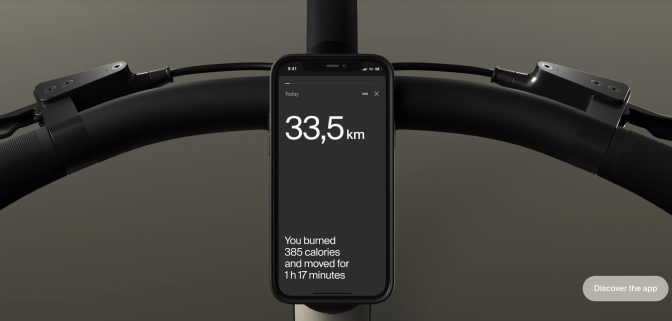
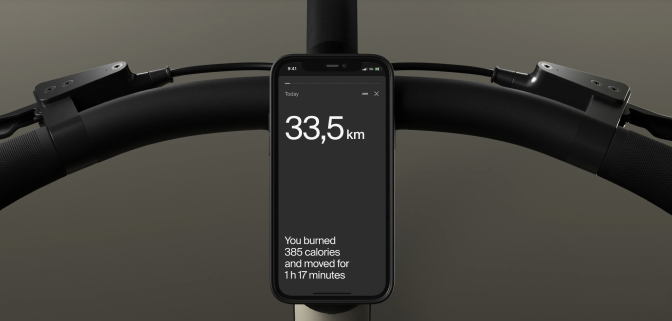
fixed landing

Changed region(s): [[0.8438, 0.8411, 1.0, 0.9657]]

diff --git a/src/styles/blocks/top-bar.scss b/src/styles/blocks/top-bar.scss
@@ -48,14 +48,18 @@
 
     &-phone {
       position: relative;
-      background-image: url('./../img/icons/icon-phone.svg');
+      background-image: url("./../img/icons/icon-phone.svg");
 
       @include on-desktop {
         &:hover::before {
-          content: '+1 234 555-55-55';
+          content: "+1 234 555-55-55";
           display: block;
           width: max-content;
           color: $color-main-text;
+          font-weight: 700;
+          font-size: 12px;
+          letter-spacing: 2px;
+          line-height: 16px;
 
           position: absolute;
           top: 50%;
@@ -66,15 +70,15 @@
     }
 
     &-menu {
-      background-image: url('./../img/icons/icon-burger-menu.svg');
+      background-image: url("./../img/icons/icon-burger-menu.svg");
 
       &:hover {
-        background-image: url('./../img/icons/icon-burger-menu-hover.svg');
+        background-image: url("./../img/icons/icon-burger-menu-hover.svg");
       }
     }
 
     &-close {
-      background-image: url('./../img/icons/icon-close.svg');
+      background-image: url("./../img/icons/icon-close.svg");
     }
   }
 }

diff --git a/src/styles/style.scss b/src/styles/style.scss
@@ -1,21 +1,22 @@
-@import './utils/variables';
-@import './utils/mixins';
-@import './blocks/header';
-@import './blocks/top-bar';
-@import './blocks/btn';
-@import './blocks/menu';
-@import './blocks/nav';
-@import './blocks/section-title';
-@import './blocks/main';
-@import './blocks/about-us';
-@import './blocks/cards';
-@import './blocks/details';
-@import './blocks/gallery';
-@import './blocks/contacts';
-@import './blocks/footer';
+@import "./utils/variables";
+@import "./utils/mixins";
+@import "./blocks/header";
+@import "./blocks/top-bar";
+@import "./blocks/btn";
+@import "./blocks/menu";
+@import "./blocks/nav";
+@import "./blocks/section-title";
+@import "./blocks/main";
+@import "./blocks/about-us";
+@import "./blocks/cards";
+@import "./blocks/details";
+@import "./blocks/gallery";
+@import "./blocks/contacts";
+@import "./blocks/footer";
 
 * {
   box-sizing: border-box;
+  outline: none;
 }
 
 html {

diff --git a/src/styles/blocks/header.scss b/src/styles/blocks/header.scss
@@ -1,8 +1,18 @@
 .header {
-  background-image: url('./../img/img-bg.png');
+  background-image: url("./../img/img-bg.png");
   background-position: 85% 50%;
   background-size: cover;
   background-repeat: no-repeat;
+
+  @include on-tablet {
+    background-size: 120%;
+    background-position: 48%;
+  }
+
+  @include on-desktop {
+    background-position: 85% 50%;
+    background-size: cover;
+  }
 
   &__content {
     display: flex;

diff --git a/src/styles/blocks/contacts.scss b/src/styles/blocks/contacts.scss
@@ -27,7 +27,6 @@
     padding: 14px 16px;
     border-radius: 40px;
     background: $color-input-bg;
-    outline: none;
 
     color: #292929;
     font-family: $font-page;
@@ -67,7 +66,6 @@
     padding: 14px 16px;
     border-radius: 16px;
     background: $color-input-bg;
-    outline: none;
     resize: none;
 
     color: #292929;
